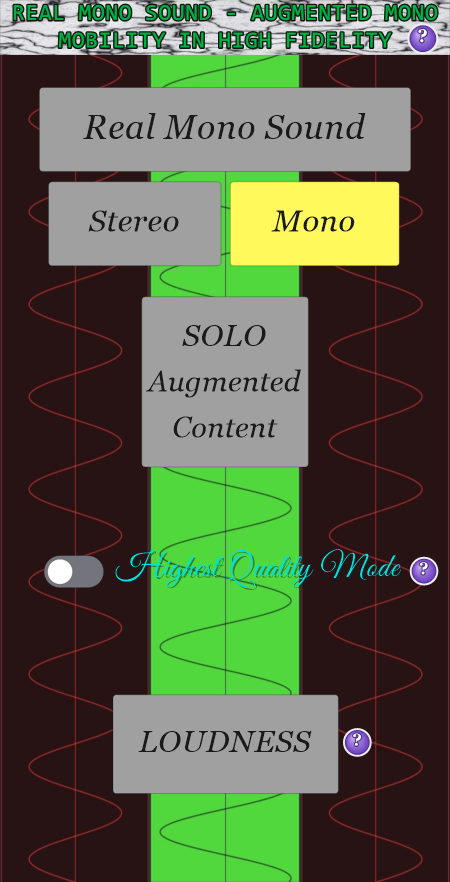
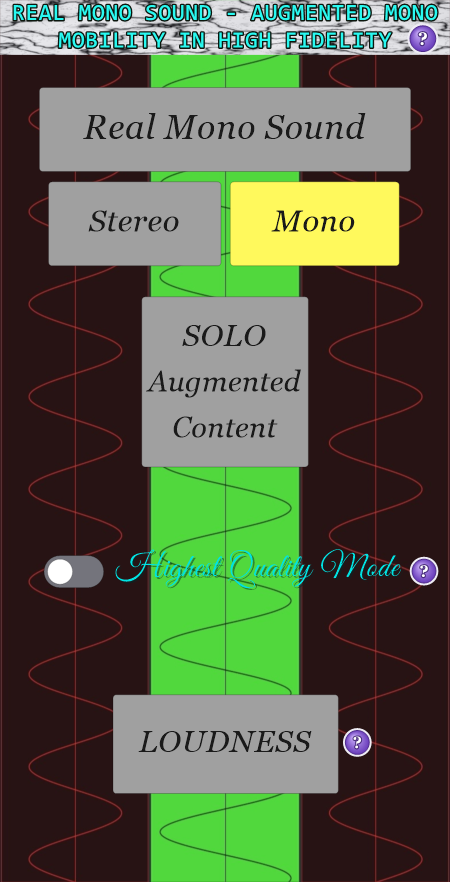
Take the client's three notes: cyan, centred, and on the press
The banner green is theirs now: rgb(41, 249, 241), which is the same cyan
the script line under the switch is in, so the two pieces of coloured type
on the face are one colour rather than nearly two.

The question mark was low and slightly off in its ball. A question mark
does not fill its em square -- no descender, and the ink sits high -- so
aligning the layout box centres the empty space along with the glyph. It
had a hand-picked nudge to cover that, which was only ever right for one
face at one size. It is laid out at the origin now, asked what it actually
covers, and moved so that is what sits in the middle.

And the backgrounds change on the press. They were tied to whether audio
was moving, which meant pressing Stereo or Mono did nothing at all until
Start was pressed too -- not feedback, whatever else it was. The three
plates are a sequence: the app opens on the idle one, which is what the
client's second and third screens are, and choosing a side lights that
side. Their first screen is the same app after Stereo. A choice made in
the panel counts as the same choice, so the plate cannot end up telling a
different story from the window it did not come from.

diff --git a/src/Face.cpp b/src/Face.cpp
@@ -136,6 +136,21 @@ int g_hot = WNone;
 int g_pressed = WNone;
 bool g_tracking = false;
 
+/*  Whether Stereo or Mono has been chosen yet, which is what selects the
+    background plate.
+
+    The client supplied three, and the three are a sequence rather than three
+    equals: the app opens on the idle plate -- which is the one their own
+    second and third screens show, freshly launched with Mono preselected and
+    nothing yet pressed -- and picking a side lights that side's plate. Their
+    first screen is the same app after Stereo has been pressed.
+
+    It is deliberately not tied to whether audio is playing. An earlier
+    version did that and it meant pressing a button changed nothing until
+    Start was pressed too, which is not feedback. */
+bool g_chosen = false;
+int g_lastMono = -1;  // -1 until the first paint has something to compare against
+
 
 /*  ------------------------------------------------------------------ helpers */
 
@@ -227,13 +242,22 @@ void paint(HWND hwnd, HDC dc) {
 	const FontFamily* serif = g_assets->serifFace();
 
 	// ------------------------------------------------------------ background
-	// Idle until something is actually playing; then the band that is doing
-	// the work lights up -- the red sides for a stereo pass-through, the green
-	// centre for the mono feed. Which is the client's own visual argument for
-	// what the product does, so it is driven by the engine and not by the
-	// button, and it goes dark again the moment the audio stops.
-	const int plate = !m.running ? skin::PlateIdle
-	                             : (m.mono ? skin::PlateMono : skin::PlateStereo);
+	// The idle plate until a side has been chosen, then the plate for whichever
+	// side it was: the red flanks lit for a stereo pass-through, the green
+	// centre lit for the mono feed. Which is the client's own visual argument
+	// for what the product does.
+	//
+	// The choice is also noticed when it is made from the panel rather than
+	// here, because it is the same setting either way and a background that
+	// only followed one of the two windows would be a background that lies
+	// about the other.
+	const int monoNow = m.mono ? 1 : 0;
+	if (g_lastMono >= 0 && monoNow != g_lastMono)
+		g_chosen = true;
+	g_lastMono = monoNow;
+
+	const int plate = !g_chosen ? skin::PlateIdle
+	                            : (m.mono ? skin::PlateMono : skin::PlateStereo);
 	if (Bitmap* background = g_assets->background(plate, cw, ch))
 		g.DrawImage(background, Rect(0, 0, cw, ch), 0, 0, cw, ch, UnitPixel);
 	else
@@ -347,10 +371,15 @@ void activate(HWND hwnd, int widget) {
 	const Model m = g_host.read();
 	switch (widget) {
 		case WStereo:
+			// Pressing either side counts as choosing, even when it is the side
+			// that was already selected -- it is still the moment the user said
+			// which one they want, and the plate should light for it.
+			g_chosen = true;
 			if (g_host.setMono)
 				g_host.setMono(false);
 			break;
 		case WMono:
+			g_chosen = true;
 			if (g_host.setMono)
 				g_host.setMono(true);
 			break;

diff --git a/src/Skin.h b/src/Skin.h
@@ -53,7 +53,7 @@ using Gdiplus::RectF;
     they will, and a colour written into eight draw calls is a colour that ends
     up as seven of one and one of another. */
 
-const Color kBannerText(255, 0, 176, 66);    // the green on the marble strip
+const Color kBannerText(255, 41, 249, 241);   // the cyan on the marble strip
 const Color kBannerOutline(255, 12, 22, 14);  // and the stroke that makes it survive the veins
 const Color kPlate(255, 160, 160, 160);      // an inactive button
 const Color kPlateHot(255, 184, 184, 184);   // ... under the pointer
@@ -186,16 +186,35 @@ inline void drawHelp(Gdiplus::Graphics& g, const RectF& r, bool hot,
 
 	if (!family)
 		return;
+
+	/*  Centred on its own ink rather than on the font's line box.
+
+	    A question mark does not fill its em square -- no descender, and the
+	    ink sits high in the box -- so aligning the box centres the empty space
+	    as well as the glyph and the mark ends up visibly low and slightly off
+	    to one side. Nudging it by a hand-picked fraction was the first fix and
+	    it was only right for one font at one size.
+
+	    So: lay the glyph out at the origin, ask the path what it actually
+	    covers, and translate that to the middle of the ball. Correct for any
+	    face, any size, and any glyph that might replace it. */
 	Gdiplus::StringFormat format;
-	format.SetAlignment(Gdiplus::StringAlignmentCenter);
-	format.SetLineAlignment(Gdiplus::StringAlignmentCenter);
+	format.SetAlignment(Gdiplus::StringAlignmentNear);
+	format.SetLineAlignment(Gdiplus::StringAlignmentNear);
 	format.SetFormatFlags(Gdiplus::StringFormatFlagsNoClip | Gdiplus::StringFormatFlagsNoWrap);
 
-	// Nudged up by a hair: a question mark's ink sits below its own box centre,
-	// so centring the box leaves it looking like it has slipped.
-	const RectF box(r.X, r.Y - r.Height * 0.06f, r.Width, r.Height);
 	Gdiplus::GraphicsPath glyph;
-	glyph.AddString(L"?", -1, family, Gdiplus::FontStyleBold, r.Height * 0.60f, box, &format);
+	glyph.AddString(L"?", -1, family, Gdiplus::FontStyleBold, r.Height * 0.58f,
+	                Gdiplus::PointF(0.f, 0.f), &format);
+
+	RectF drawn;
+	if (glyph.GetBounds(&drawn) == Gdiplus::Ok && drawn.Width > 0.f && drawn.Height > 0.f) {
+		Gdiplus::Matrix move;
+		move.Translate(r.X + r.Width * 0.5f - (drawn.X + drawn.Width * 0.5f),
+		               r.Y + r.Height * 0.5f - (drawn.Y + drawn.Height * 0.5f));
+		glyph.Transform(&move);
+	}
+
 	Gdiplus::Pen stroke(kHelpGlyphEdge, (std::max)(1.f, r.Width * 0.075f));
 	stroke.SetLineJoin(Gdiplus::LineJoinRound);
 	g.DrawPath(&stroke, &glyph);

diff --git a/README.md b/README.md
@@ -183,9 +183,9 @@ Two windows, and only one of them is the product.
 ### The face
 
 <p align="center">
-  <img src="docs/face-idle.png" width="270" alt="Idle">
-  <img src="docs/face-stereo.png" width="270" alt="Stereo, playing">
-  <img src="docs/face-mono.png" width="270" alt="Mono, playing">
+  <img src="docs/face-idle.png" width="270" alt="As it opens">
+  <img src="docs/face-stereo.png" width="270" alt="Stereo">
+  <img src="docs/face-mono.png" width="270" alt="Mono">
 </p>
 
 The client's screen, and the whole of what a listener touches. Five things to
@@ -203,12 +203,17 @@ press:
 Stereo and Mono are one setting drawn as two buttons, so exactly one of them is
 yellow at all times. That pair is the A/B the whole product exists for.
 
-**The background is driven by the engine, not by the buttons.** It is the idle
-plate until audio is actually moving; then the band doing the work lights up —
-the red sides for a stereo pass-through, the green centre for the mono feed.
-Which is the client's own visual argument for what the product does, so it goes
-dark again the moment the audio stops rather than agreeing with a button that
-is merely selected.
+**The three backgrounds are a sequence, not three equals.** The app opens on
+the idle plate — which is what the client's second and third screens show, a
+fresh launch with Mono preselected and nothing yet pressed — and choosing a
+side lights that side's plate: the red flanks for a stereo pass-through, the
+green centre for the mono feed. Their first screen is the same app after
+*Stereo* has been pressed.
+
+It changes on the press, not on Start, and it notices the choice when it is
+made from the panel too. A background that waited for audio would mean pressing
+a button changed nothing until you pressed a second one, and a background that
+followed only one of the two windows would be lying about the other.
 
 The three **?** buttons open the explanation for what they sit next to. The one
 on the banner also says where the routing went.
@@ -468,10 +473,10 @@ app's **File** source, which decodes it with Windows' own codecs.
 - **The face, driven end to end.** Every control was clicked and the panel read
   back afterwards: Stereo and Mono move the global bypass, the switch checks
   highest quality mode, and SOLO and LOUDNESS land on exactly +6.0 dB of Side
-  inject and +6.0 dB of output. The three background plates were seen in all
-  three of their states — idle while stopped, red while passing stereo through,
-  green while playing the mono feed — and the switch between them follows the
-  engine, not the button.
+  inject and +6.0 dB of output. All three background plates were seen in their
+  own states — idle as the app opens, red the instant *Stereo* is pressed,
+  green the instant *Mono* is — with the engine stopped throughout, which is
+  the case that has to work if the press is to be feedback at all.
 - **The two-window lifecycle.** Closing the panel hides it and leaves the app
   running; the face's system-menu item brings it back; closing the face stops
   the audio threads and exits cleanly with the engine still running at the time
